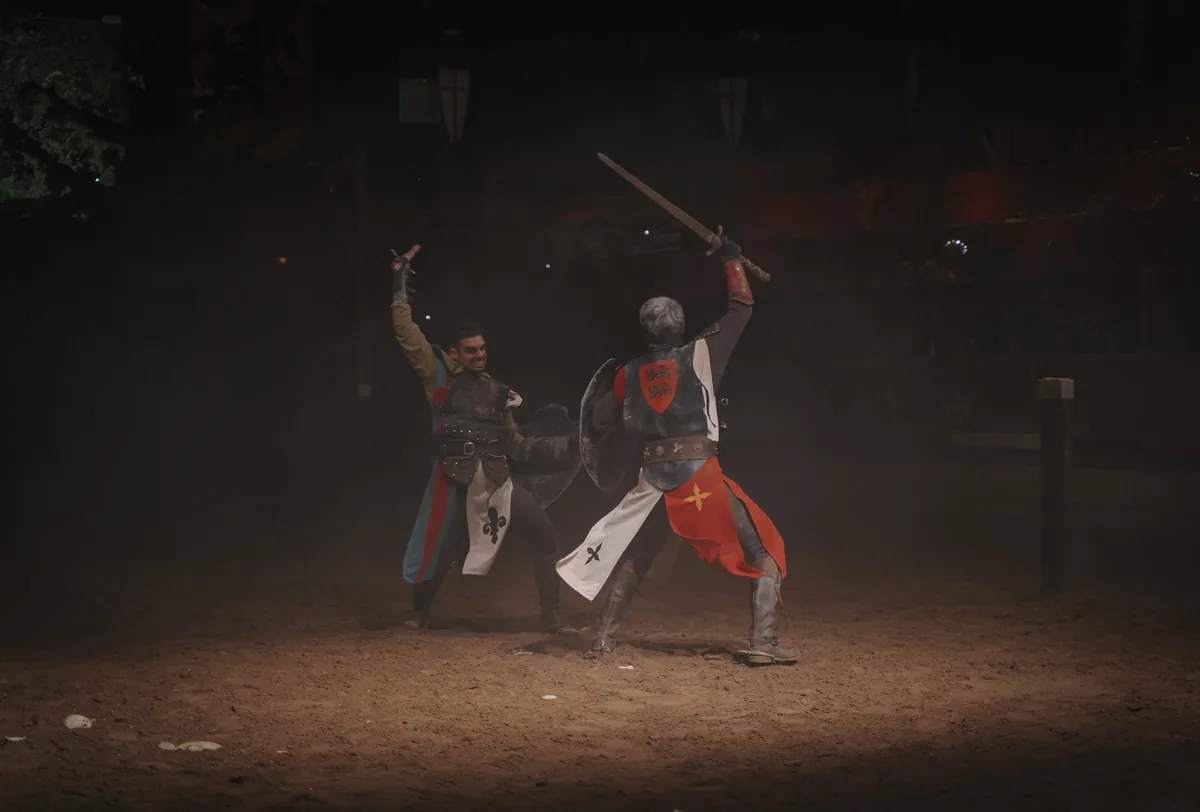
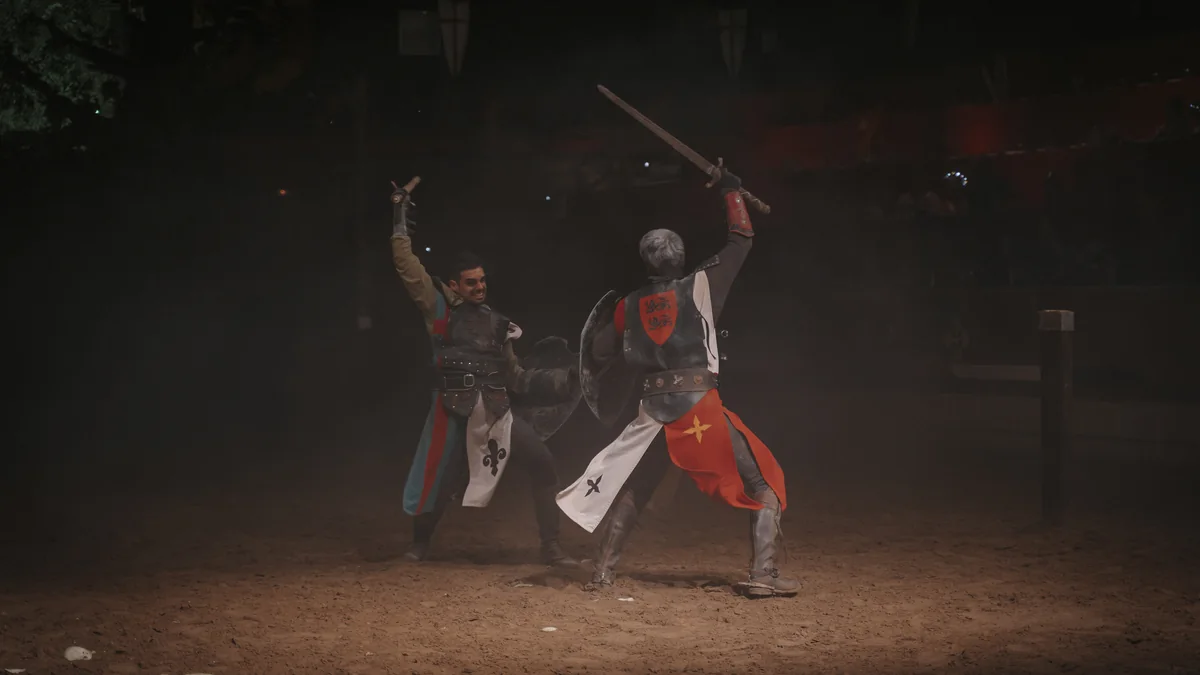
fix(magic-world): fotos regeneradas a 16:9 sin rotación, layout simplificado
Todas las imágenes convertidas a 1200×675 con crop centrado y exif_transpose
únicamente. Eliminada la rotación manual que causaba giros incorrectos.
Eliminado foto-par, CSS de imágenes simplificado.

diff --git a/src/styles/global.css b/src/styles/global.css
@@ -323,23 +323,9 @@ button { cursor: pointer; font-family: inherit; }
 .prose img:not(.review-card-avatar) {
   display: block;
   width: 100%;
-  max-width: 680px;
-  margin: 2rem auto;
   border-radius: var(--r-lg);
-  box-shadow: 0 6px 24px rgba(0,0,0,0.35);
-}
-
-/* Par de fotos verticales lado a lado */
-.foto-par {
-  display: grid;
-  grid-template-columns: 1fr 1fr;
-  gap: 0.75rem;
   margin: 2rem 0;
-}
-.foto-par img { max-width: 100% !important; margin: 0 !important; height: 320px; object-fit: cover; }
-@media (max-width: 500px) {
-  .foto-par { grid-template-columns: 1fr; }
-  .foto-par img { height: 240px; }
+  box-shadow: 0 4px 20px rgba(0,0,0,0.4);
 }
 
 /* ─── VIDEO EMBED ─── */

diff --git a/src/content/articles/magic-world-resort-opiniones.md b/src/content/articles/magic-world-resort-opiniones.md
@@ -163,10 +163,9 @@ Para familias que también buscan relax de adultos, el **Hotel Pontiana Thalasso
 
 El parque acuático de Magic World Resort es **el punto fuerte del resort en verano**. Tiene toboganes para distintos niveles, desde los más suaves para los peques hasta los rápidos para los mayores, y una piscina de olas que siempre llena de niños.
 
-<div class="foto-par">
-<img src="/blog/magic-world/magic-world-resort-tobogan-parque-acuatico.webp" alt="Tobogán del parque acuático de Magic World Resort" loading="lazy" />
-<img src="/blog/magic-world/magic-world-resort-piscina-palmeras.webp" alt="Piscina con palmeras en Magic World Resort" loading="lazy" />
-</div>
+![Tobogán del parque acuático de Magic World Resort en Oropesa del Mar](/blog/magic-world/magic-world-resort-tobogan-parque-acuatico.webp)
+
+![Piscina con palmeras y pantalla gigante en Magic World Resort](/blog/magic-world/magic-world-resort-piscina-palmeras.webp)
 
 Lo que más nos gusta: el nivel de mantenimiento. El agua está siempre limpia y las instalaciones se ven bien cuidadas. Lo que mejoraría: en agosto las colas en los toboganes grandes pueden ser largas. Recomendamos llegar a primera hora y hacer los toboganes más populares antes de las 11:00.
 
